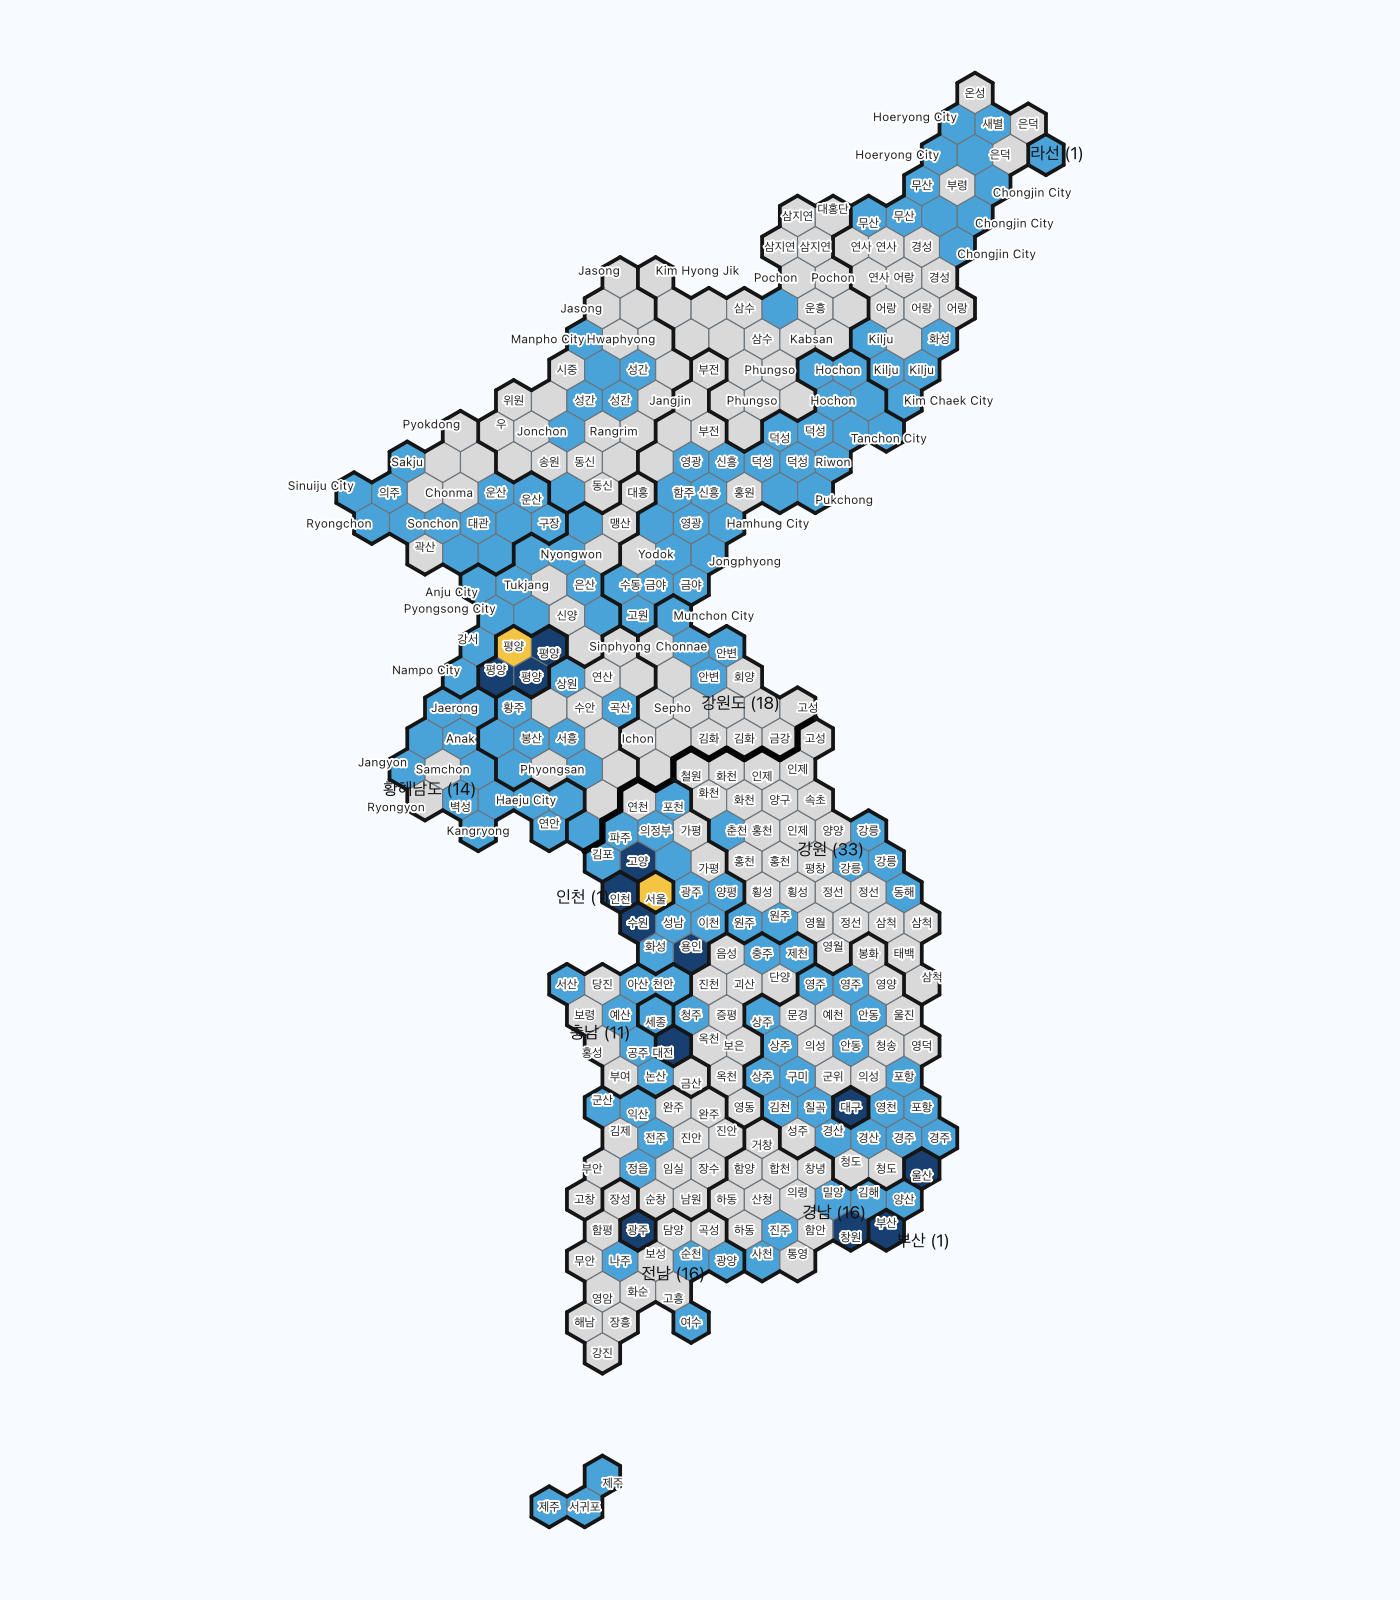
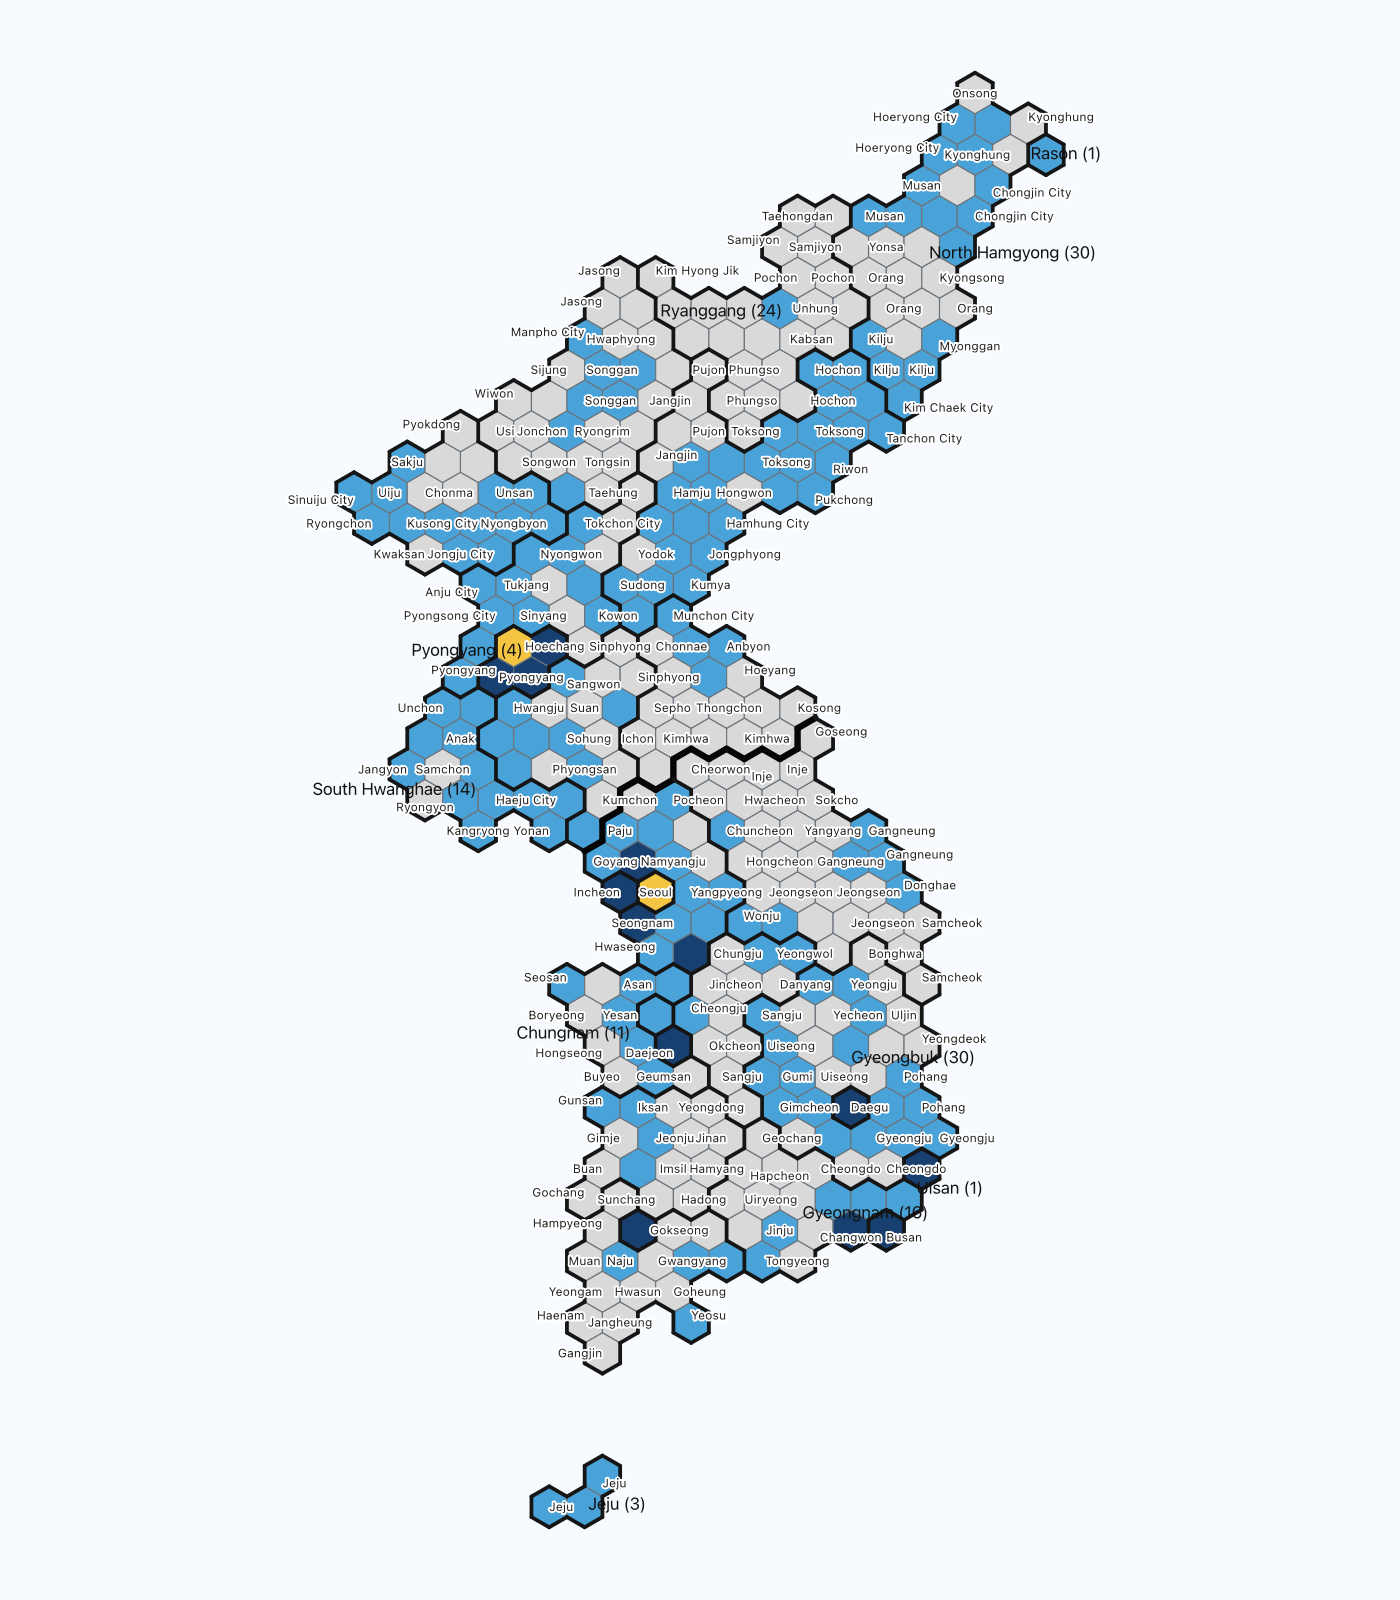
Use English labels across peninsula map

diff --git a/AtlasMap/scripts/build_korea_map.py b/AtlasMap/scripts/build_korea_map.py
@@ -727,6 +727,12 @@ class AtlasKoreaBuild(QgsProcessingAlgorithm):
             raise QgsProcessingException(f"Config does not exist: {config_path}")
         root = config_path.parent.parent.resolve()
         settings = json.loads(config_path.read_text(encoding="utf-8"))
+        display_language = settings.get("display_language", "en")
+        if display_language not in {"en", "ko"}:
+            raise QgsProcessingException(
+                f"Unsupported display_language: {display_language}"
+            )
+        display_suffix = "en" if display_language == "en" else "ko"
         country_settings = configured_countries(settings)
         admins = [admin for item in country_settings for admin in item["admin1"]]
         admin_by_code = {admin["code"]: admin for admin in admins}
@@ -1305,12 +1311,22 @@ class AtlasKoreaBuild(QgsProcessingAlgorithm):
 
         categories = []
         class_colors = settings["city_classification"]["colors"]
-        for value, label in (
-            ("admin", "일반 행정구역"),
-            ("city", "도시 · 인구 10만 이상 100만 미만"),
-            ("metropolis", "대도시 · 인구 100만 이상"),
-            ("capital", "수도"),
-        ):
+        category_labels = {
+            "en": {
+                "admin": "Administrative tile",
+                "city": "City · population 100,000–999,999",
+                "metropolis": "Metropolis · population 1,000,000+",
+                "capital": "Capital",
+            },
+            "ko": {
+                "admin": "일반 행정구역",
+                "city": "도시 · 인구 10만 이상 100만 미만",
+                "metropolis": "대도시 · 인구 100만 이상",
+                "capital": "수도",
+            },
+        }
+        for value in ("admin", "city", "metropolis", "capital"):
+            label = category_labels[display_language][value]
             symbol = QgsFillSymbol.createSimple(
                 {"color": class_colors[value], "outline_color": "#6b737b", "outline_width": "0.25"}
             )
@@ -1318,7 +1334,8 @@ class AtlasKoreaBuild(QgsProcessingAlgorithm):
         persisted_tiles.setRenderer(QgsCategorizedSymbolRenderer("map_class", categories))
         label_settings = QgsPalLayerSettings()
         label_settings.fieldName = (
-            "tile_name_ko || CASE WHEN @map_scale < 350000 THEN '\\n' || tile_id ELSE '' END"
+            f"tile_name_{display_suffix} || CASE WHEN @map_scale < 350000 "
+            "THEN '\\n' || tile_id ELSE '' END"
         )
         label_settings.isExpression = True
         label_settings.scaleVisibility = True
@@ -1340,7 +1357,9 @@ class AtlasKoreaBuild(QgsProcessingAlgorithm):
         )
         persisted_admin.setRenderer(QgsSingleSymbolRenderer(admin_symbol))
         admin_labels = QgsPalLayerSettings()
-        admin_labels.fieldName = "admin1_name_ko || ' (' || tile_count || ')'"
+        admin_labels.fieldName = (
+            f"admin1_name_{display_suffix} || ' (' || tile_count || ')'"
+        )
         admin_labels.isExpression = True
         admin_text = QgsTextFormat()
         admin_text.setSize(10)

diff --git a/AtlasMap/scripts/validate_korea_map.py b/AtlasMap/scripts/validate_korea_map.py
@@ -138,6 +138,13 @@ class AtlasKoreaValidate(QgsProcessingAlgorithm):
             if not passed:
                 failures.append(f"{name}: {detail}")
 
+        display_language = str(settings.get("display_language", ""))
+        check(
+            "Display language is configured",
+            display_language in {"en", "ko"},
+            f"display_language={display_language}",
+        )
+
         check("GeoPackage layer loads", layer.isValid(), str(gpkg))
         if not layer.isValid():
             report_path.write_text("# Validation failed\n\nGeoPackage layer does not load.\n", encoding="utf-8")
@@ -613,6 +620,7 @@ class AtlasKoreaValidate(QgsProcessingAlgorithm):
         ]
         path_hits = []
         border_above_tiles = False
+        display_labels_match = False
         files_to_scan = sorted((root / "scripts").glob("*"))
         for path in files_to_scan:
             if not path.is_file():
@@ -633,10 +641,19 @@ class AtlasKoreaValidate(QgsProcessingAlgorithm):
                         border_position >= 0 and tile_position >= 0
                         and border_position < tile_position
                     )
+                    display_labels_match = (
+                        f"tile_name_{display_language}" in text
+                        and f"admin1_name_{display_language}" in text
+                    )
                     for line_number, line in enumerate(text.splitlines(), 1):
                         if any(pattern.search(line) for pattern in absolute_patterns):
                             path_hits.append(f"{project_path.name}:{line_number}")
         check("Relative shared paths", not path_hits, f"absolute_path_hits={path_hits}")
+        check(
+            "QGIS labels use the configured language",
+            display_labels_match,
+            f"display_language={display_language}",
+        )
         check(
             "Admin border layer renders above tile fills",
             border_above_tiles,

diff --git a/AtlasMap/reports/validation_report.md b/AtlasMap/reports/validation_report.md
@@ -1,11 +1,12 @@
 # Atlas Korean Peninsula validation report
 
-Generated: 2026-07-15T02:49:54.715851+00:00
+Generated: 2026-07-15T02:56:16.236776+00:00
 
 Overall result: **PASS**
 
 | Check | Result | Detail |
 | --- | --- | --- |
+| Display language is configured | PASS | display_language=en |
 | GeoPackage layer loads | PASS | /Users/kimkihoon/Desktop/my-projects/atlas/AtlasMap/data/processed/Atlas_Korea.gpkg |
 | CRS | PASS | EPSG:5179 |
 | Final country codes | PASS | wrong_country=[] |
@@ -46,6 +47,7 @@ Overall result: **PASS**
 | Neighbor IDs exist | PASS | missing=[] |
 | Neighbor symmetry | PASS | asymmetric=[] |
 | Relative shared paths | PASS | absolute_path_hits=[] |
+| QGIS labels use the configured language | PASS | display_language=en |
 | Admin border layer renders above tile fills | PASS | border_above_tiles=True |
 
 ## Allocation

diff --git a/AtlasMap/README.md b/AtlasMap/README.md
@@ -5,6 +5,8 @@ prototype map used by **Atlas**. It builds the Republic of Korea and the
 Democratic People's Republic of Korea together on one common regular-hex grid
 in EPSG:5179. Each tile goes first to its dominant country-or-ocean overlap,
 then only to a first-level administrative area belonging to that same country.
+The QGIS display language is controlled by `display_language`; it is currently
+set to English so every tile and Admin-1 label uses one language consistently.
 
 There is no fixed national tile count. A tile belongs to KOR or PRK only when
 that country's land occupies more of it than every neighboring country and the

diff --git a/AtlasMap/reports/allocation_report.md b/AtlasMap/reports/allocation_report.md
@@ -1,6 +1,6 @@
 # Atlas Korean Peninsula tile allocation report
 
-Generated: 2026-07-15T02:49:53.389387+00:00
+Generated: 2026-07-15T02:56:15.023446+00:00
 
 - Orientation: `pointy_top`
 - Final tiles: **364**